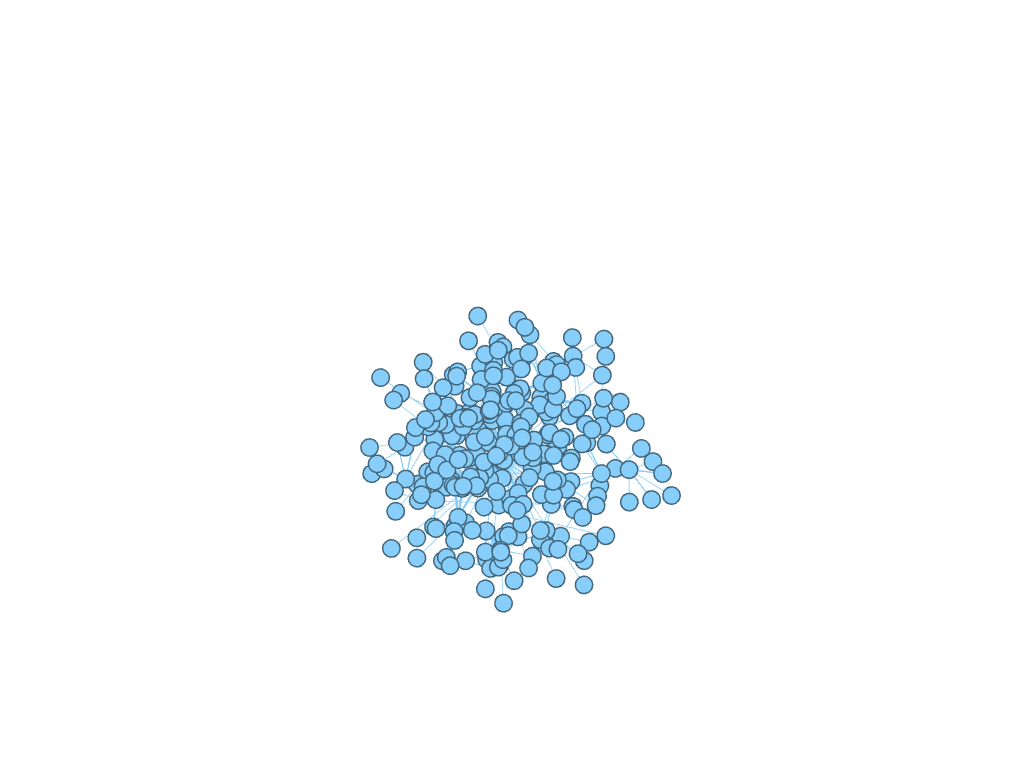
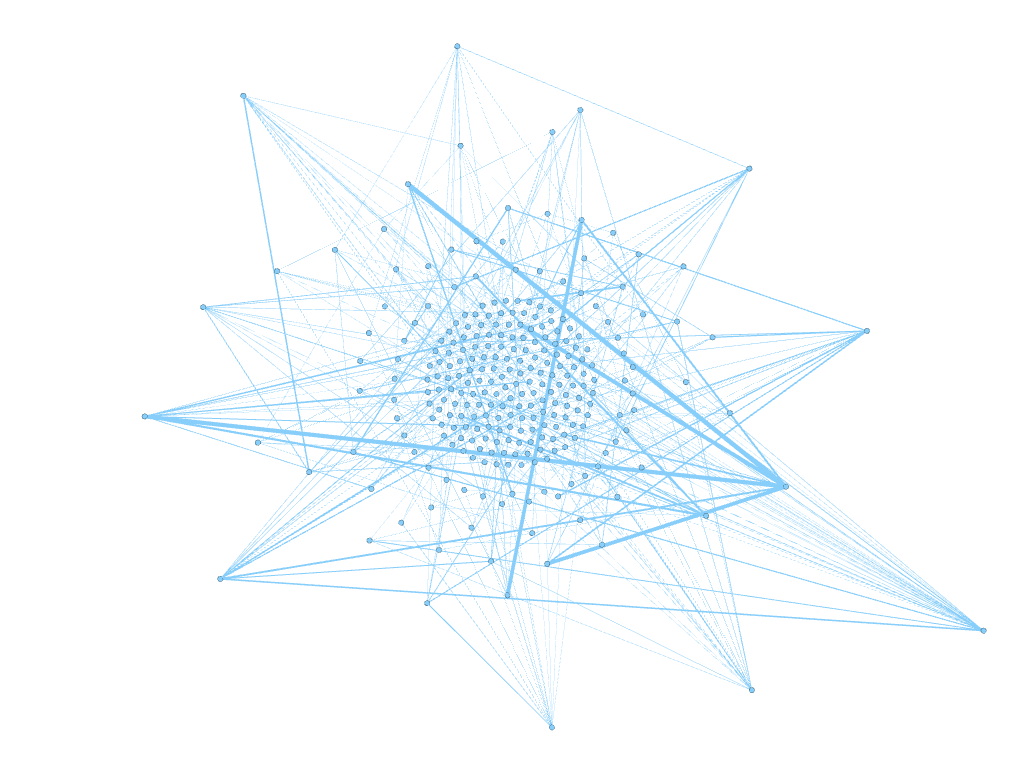
parte 1 hecha

Changed region(s): [[0.125, 0.0625, 0.9688, 0.9375]]

diff --git a/P3/memoria/memoria.tex b/P3/memoria/memoria.tex
@@ -353,29 +353,39 @@ Otro detalle a tener en cuenta es que conforme se va podando la red, va reducié
 
 es decir, la densidad depende del número de enlaces, $L$, de la red, al ir eliminando enlaces al podar, también reducimos la densidad de la red.
 
-\subsection{Visualización de los cienciogramas}
+\subsection{Visualización de los cienciogramas y comparación de los métodos de distribución K-K y F-R}
 
-Los cienciogramas que he elegido para visualizar son la de \textit{Estados Unidos en el año 2002} porque es la que más poda entre $q = 5$ y $q = n-1$ y la de \textit{España en el año 2002} porque no poda nada una vez pasado $q = 5$.
+Los cienciogramas que he elegido para visualizar son la de \textit{Estados Unidos en el año 2002} (Figuras \hyperref[frus]{\ref*{frus}} y \hyperref[kkus]{\ref*{kkus}} y \hyperref[unitedstates2002]{Tabla \ref*{unitedstates2002}}) porque es la que más poda entre $q = 5$ y $q = n-1$ y la de \textit{España en el año 2002} (Figuras \hyperref[frsp]{\ref*{frsp}} y \hyperref[kksp]{\ref*{kksp}} y \hyperref[spain2002]{Tabla \ref*{spain2002}}) porque no poda nada una vez pasado $q = 5$.
+
+Para poder aplicar el método K-K, he tenido que anular la fuerza de atracción, ya que si no, los nodos salían demasiado pegados en las visualizaciones.
+
+Con ambas redes, debido a que tienen una naturaleza muy similar, obtenemos resultados muy parecidos. Incluso, las visualizaciones las redes con cada método de distribución y distinto $q$ han dado resultados prácticamente idénticos. Por tanto, el análisis se centrará más en diferenciar al método K-K y al F-R.
+
+Con el método F-R, obtenemos una visualización prácticamente \textit{circular}, y en el centro se ven los enlaces con un mayor peso. En cambio, con el método K-K, obtenemos un grafo de estrella, donde en el centro se colocan una serie de nodos equidistantes entre sí y otros en las puntas de las estrellas. Otro detalle a destacar del K-K, es que ha dejado los enlaces con más peso en los nodos de la periferia, al contrario que el método F-R. Por tanto, podemos concluir que hemos obtenido grafos completamente distintos con ambos métodos.
+
+Estas diferencias se deben a las diferencias en la naturaleza de ambos algoritmos: el F-R tiende a colocar próximos los nodos que estén conectados entre sí mientras que el K-K, se persigue conseguir las distancias teóricas que existen en el grafo. En nuestro caso, hemos tenido que anular la fuerza atractiva del K-K para que los nodos no se solapasen entre sí en un único nodo por lo que sólo hemos dejado actuar a la fuerza repulsiva. Así, con el método de distribución F-R se han colocado los nodos con más enlaces en el centro del grafo y los que tenían menos, han ido a parar a la periferia del grafo. En cambio, en el K-K, hay nodos en la periferia con muchos más enlaces que los nodos del centro.
+
+Ambas distruciones dan bastante información sobre la red, aunque necesitan de información adicional como tamaño de los nodos o un coloreado.
 
 \begin{figure}[!h]
     \centering
     \mbox{
         \subfigure[PFNET($r = \infty$, $q = 2$)]{
-            \includegraphics[width=0.5\textwidth]{../visualizacion/q2_fr_spain}
+            \includegraphics[width=0.25\textwidth]{../visualizacion/q2_fr_spain}
             \label{q2frsp}
         }
         \subfigure[PFNET($r = \infty$, $q = 3$)]{
-            \includegraphics[width=0.5\textwidth]{../visualizacion/q3_fr_spain}
+            \includegraphics[width=0.25\textwidth]{../visualizacion/q3_fr_spain}
             \label{q3frsp}
         }
     }
     \mbox{
         \subfigure[PFNET($r = \infty$, $q = 4$)]{
-            \includegraphics[width=0.5\textwidth]{../visualizacion/q4_fr_spain}
+            \includegraphics[width=0.25\textwidth]{../visualizacion/q4_fr_spain}
             \label{q4frsp}
         }
         \subfigure[PFNET($r = \infty$, $q = n-1$)]{
-            \includegraphics[width=0.5\textwidth]{../visualizacion/qn_fr_spain}
+            \includegraphics[width=0.25\textwidth]{../visualizacion/qn_fr_spain}
             \label{qnfrsp}
         }
     }
@@ -387,21 +397,21 @@ Los cienciogramas que he elegido para visualizar son la de \textit{Estados Unido
     \centering
     \mbox{
         \subfigure[PFNET($r = \infty$, $q = 2$)]{
-            \includegraphics[width=0.5\textwidth]{../visualizacion/q2_kk_spain}
+            \includegraphics[width=0.25\textwidth]{../visualizacion/q2_kk_spain}
             \label{q2kksp}
         }
         \subfigure[PFNET($r = \infty$, $q = 3$)]{
-            \includegraphics[width=0.5\textwidth]{../visualizacion/q3_kk_spain}
+            \includegraphics[width=0.25\textwidth]{../visualizacion/q3_kk_spain}
             \label{q3kksp}
         }
     }
     \mbox{
         \subfigure[PFNET($r = \infty$, $q = 4$)]{
-            \includegraphics[width=0.5\textwidth]{../visualizacion/q4_kk_spain}
+            \includegraphics[width=0.25\textwidth]{../visualizacion/q4_kk_spain}
             \label{q4kksp}
         }
         \subfigure[PFNET($r = \infty$, $q = n-1$)]{
-            \includegraphics[width=0.5\textwidth]{../visualizacion/qn_kk_spain}
+            \includegraphics[width=0.25\textwidth]{../visualizacion/qn_kk_spain}
             \label{qnkksp}
         }
     }
@@ -413,21 +423,21 @@ Los cienciogramas que he elegido para visualizar son la de \textit{Estados Unido
     \centering
     \mbox{
         \subfigure[PFNET($r = \infty$, $q = 2$)]{
-            \includegraphics[width=0.5\textwidth]{../visualizacion/q2_fr_us}
+            \includegraphics[width=0.25\textwidth]{../visualizacion/q2_fr_us}
             \label{q2frus}
         }
         \subfigure[PFNET($r = \infty$, $q = 3$)]{
-            \includegraphics[width=0.5\textwidth]{../visualizacion/q3_fr_us}
+            \includegraphics[width=0.25\textwidth]{../visualizacion/q3_fr_us}
             \label{q3frus}
         }
     }
     \mbox{
         \subfigure[PFNET($r = \infty$, $q = 4$)]{
-            \includegraphics[width=0.5\textwidth]{../visualizacion/q4_fr_us}
+            \includegraphics[width=0.25\textwidth]{../visualizacion/q4_fr_us}
             \label{q4frus}
         }
         \subfigure[PFNET($r = \infty$, $q = n-1$)]{
-            \includegraphics[width=0.5\textwidth]{../visualizacion/qn_fr_us}
+            \includegraphics[width=0.25\textwidth]{../visualizacion/qn_fr_us}
             \label{qnfrus}
         }
     }
@@ -439,27 +449,28 @@ Los cienciogramas que he elegido para visualizar son la de \textit{Estados Unido
     \centering
     \mbox{
         \subfigure[PFNET($r = \infty$, $q = 2$)]{
-            \includegraphics[width=0.5\textwidth]{../visualizacion/q2_kk_us}
+            \includegraphics[width=0.25\textwidth]{../visualizacion/q2_kk_us}
             \label{q2kkus}
         }
         \subfigure[PFNET($r = \infty$, $q = 3$)]{
-            \includegraphics[width=0.5\textwidth]{../visualizacion/q3_kk_us}
+            \includegraphics[width=0.25\textwidth]{../visualizacion/q3_kk_us}
             \label{q3kkus}
         }
     }
     \mbox{
         \subfigure[PFNET($r = \infty$, $q = 4$)]{
-            \includegraphics[width=0.5\textwidth]{../visualizacion/q4_kk_us}
+            \includegraphics[width=0.25\textwidth]{../visualizacion/q4_kk_us}
             \label{q4kkus}
         }
         \subfigure[PFNET($r = \infty$, $q = n-1$)]{
-            \includegraphics[width=0.5\textwidth]{../visualizacion/qn_kk_us}
+            \includegraphics[width=0.25\textwidth]{../visualizacion/qn_kk_us}
             \label{qnkkus}
         }
     }
     \caption{Visualizaciones de las PFNETs del cienciograma United\_States-2002 realizadas con el método de distribución K-K}
     \label{kkus}
 \end{figure}
+
 
 \section{Análisis de la eficiencia de las distintas variantes de \textit{Pathfinder} en redes de gran tamaño.}
 

diff --git a/P1/memoria/memoria.tex b/P1/memoria/memoria.tex
@@ -79,7 +79,7 @@
 
 \title{
 \normalfont \normalsize 
-{\bf Redes y Sistemas Complejos} \\ Curso 2015-2016 \\ [25pt] % Your university, school and/or department name(s)
+{\bf Redes y Sistemas Complejos} \\ Curso 2016-2017 \\ [25pt] % Your university, school and/or department name(s)
 \horrule{0.5pt} \\[0.4cm] % Thin top horizontal rule
 \huge \textsc{Práctica 1: \\ Análisis Preliminar y Visualización \\ Básica de una red de Facebook \\ con \textit{Gephi}} \\ % The assignment title
 \horrule{2pt} \\[0.5cm] % Thick bottom horizontal rule
@@ -102,7 +102,7 @@
 
 \begin{titlepage}
 \begin{center}
-\includegraphics[width=0.2\textwidth]{ugr}
+\includegraphics[width=0.2\textwidth]{../../ugr}
 
 \normalfont \normalsize 
 {\bf Redes y Sistemas Complejos} \\ Curso 2015-2016 \\ [25pt] % Your university, school and/or department name(s)
